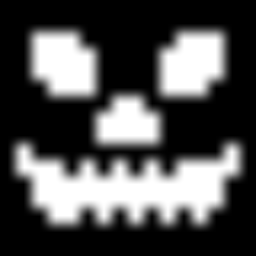
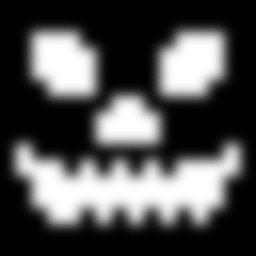
fix skull overlay

diff --git a/src/main/java/luke/bonusblocks/BonusModels.java b/src/main/java/luke/bonusblocks/BonusModels.java
@@ -1,8 +1,6 @@
 package luke.bonusblocks;
 
-import luke.bonusblocks.block.BonusBlocks;
 import luke.bonusblocks.block.blockmodel.*;
-import luke.bonusblocks.item.BonusItems;
 import net.minecraft.client.render.EntityRenderDispatcher;
 import net.minecraft.client.render.TileEntityRenderDispatcher;
 import net.minecraft.client.render.block.color.BlockColorCustom;
@@ -13,9 +11,12 @@ import net.minecraft.client.render.colorizer.Colorizers;
 import net.minecraft.client.render.item.model.ItemModelDispatcher;
 import net.minecraft.client.render.item.model.ItemModelStandard;
 import net.minecraft.client.render.texture.stitcher.TextureRegistry;
+import net.minecraft.core.util.collection.NamespaceID;
 import net.minecraft.core.util.helper.Side;
 import turniplabs.halplibe.helper.ModelHelper;
 import turniplabs.halplibe.util.ModelEntrypoint;
+
+import static luke.bonusblocks.BonusBlocksMod.MOD_ID;
 
 public class BonusModels implements ModelEntrypoint {
     @Override
@@ -359,21 +360,73 @@ public class BonusModels implements ModelEntrypoint {
 
     @Override
     public void initItemModels(ItemModelDispatcher dispatcher) {
-        ModelHelper.setItemModel(BonusItems.SOULWAX, () -> new ItemModelStandard(BonusItems.SOULWAX, "bonusblocks"));
 
-        ModelHelper.setItemModel(BonusItems.MOSSBALL, () -> new ItemModelStandard(BonusItems.MOSSBALL, "bonusblocks"));
+        ModelHelper.setItemModel(BonusItems.SOULWAX, () -> {
+            ItemModelStandard itemModelStandard = new ItemModelStandard(BonusItems.SOULWAX, MOD_ID);
+            itemModelStandard.icon = TextureRegistry.getTexture(NamespaceID.getPermanent(MOD_ID, "item/soulwax"));
+            return itemModelStandard;
+        });
+        ModelHelper.setItemModel(BonusItems.MOSSBALL, () -> {
+            ItemModelStandard itemModelStandard = new ItemModelStandard(BonusItems.MOSSBALL, MOD_ID);
+            itemModelStandard.icon = TextureRegistry.getTexture(NamespaceID.getPermanent(MOD_ID, "item/moss"));
+            return itemModelStandard;
+        });
 
-        ModelHelper.setItemModel(BonusItems.DOOR_STONE, () -> new ItemModelStandard(BonusItems.DOOR_STONE, "bonusblocks"));
-        ModelHelper.setItemModel(BonusItems.DOOR_BASALT, () -> new ItemModelStandard(BonusItems.DOOR_BASALT, "bonusblocks"));
-        ModelHelper.setItemModel(BonusItems.DOOR_GRANITE, () -> new ItemModelStandard(BonusItems.DOOR_GRANITE, "bonusblocks"));
-        ModelHelper.setItemModel(BonusItems.DOOR_LIMESTONE, () -> new ItemModelStandard(BonusItems.DOOR_LIMESTONE, "bonusblocks"));
-        ModelHelper.setItemModel(BonusItems.DOOR_MARBLE, () -> new ItemModelStandard(BonusItems.DOOR_MARBLE, "bonusblocks"));
-        ModelHelper.setItemModel(BonusItems.DOOR_SLATE, () -> new ItemModelStandard(BonusItems.DOOR_SLATE, "bonusblocks"));
-        ModelHelper.setItemModel(BonusItems.DOOR_PERMAFROST, () -> new ItemModelStandard(BonusItems.DOOR_PERMAFROST, "bonusblocks"));
-        ModelHelper.setItemModel(BonusItems.DOOR_NETHERRACK, () -> new ItemModelStandard(BonusItems.DOOR_NETHERRACK, "bonusblocks"));
-        ModelHelper.setItemModel(BonusItems.DOOR_GLASS_OBSIDIAN, () -> new ItemModelStandard(BonusItems.DOOR_GLASS_OBSIDIAN, "bonusblocks"));
-        ModelHelper.setItemModel(BonusItems.DOOR_GLASS_QUARTZ, () -> new ItemModelStandard(BonusItems.DOOR_GLASS_QUARTZ, "bonusblocks"));
-        ModelHelper.setItemModel(BonusItems.DOOR_GLASS_STEEL, () -> new ItemModelStandard(BonusItems.DOOR_GLASS_STEEL, "bonusblocks"));
+        ModelHelper.setItemModel(BonusItems.DOOR_STONE, () -> {
+            ItemModelStandard itemModelStandard = new ItemModelStandard(BonusItems.DOOR_STONE, MOD_ID);
+            itemModelStandard.icon = TextureRegistry.getTexture(NamespaceID.getPermanent(MOD_ID, "item/door_stone"));
+            return itemModelStandard;
+        });
+        ModelHelper.setItemModel(BonusItems.DOOR_BASALT, () -> {
+            ItemModelStandard itemModelStandard = new ItemModelStandard(BonusItems.DOOR_BASALT, MOD_ID);
+            itemModelStandard.icon = TextureRegistry.getTexture(NamespaceID.getPermanent(MOD_ID, "item/door_basalt"));
+            return itemModelStandard;
+        });
+        ModelHelper.setItemModel(BonusItems.DOOR_GRANITE, () -> {
+            ItemModelStandard itemModelStandard = new ItemModelStandard(BonusItems.DOOR_GRANITE, MOD_ID);
+            itemModelStandard.icon = TextureRegistry.getTexture(NamespaceID.getPermanent(MOD_ID, "item/door_granite"));
+            return itemModelStandard;
+        });
+        ModelHelper.setItemModel(BonusItems.DOOR_LIMESTONE, () -> {
+            ItemModelStandard itemModelStandard = new ItemModelStandard(BonusItems.DOOR_LIMESTONE, MOD_ID);
+            itemModelStandard.icon = TextureRegistry.getTexture(NamespaceID.getPermanent(MOD_ID, "item/door_limestone"));
+            return itemModelStandard;
+        });
+        ModelHelper.setItemModel(BonusItems.DOOR_MARBLE, () -> {
+            ItemModelStandard itemModelStandard = new ItemModelStandard(BonusItems.DOOR_MARBLE, MOD_ID);
+            itemModelStandard.icon = TextureRegistry.getTexture(NamespaceID.getPermanent(MOD_ID, "item/door_marble"));
+            return itemModelStandard;
+        });
+        ModelHelper.setItemModel(BonusItems.DOOR_SLATE, () -> {
+            ItemModelStandard itemModelStandard = new ItemModelStandard(BonusItems.DOOR_SLATE, MOD_ID);
+            itemModelStandard.icon = TextureRegistry.getTexture(NamespaceID.getPermanent(MOD_ID, "item/door_slate"));
+            return itemModelStandard;
+        });
+        ModelHelper.setItemModel(BonusItems.DOOR_PERMAFROST, () -> {
+            ItemModelStandard itemModelStandard = new ItemModelStandard(BonusItems.DOOR_PERMAFROST, MOD_ID);
+            itemModelStandard.icon = TextureRegistry.getTexture(NamespaceID.getPermanent(MOD_ID, "item/door_permafrost"));
+            return itemModelStandard;
+        });
+        ModelHelper.setItemModel(BonusItems.DOOR_NETHERRACK, () -> {
+            ItemModelStandard itemModelStandard = new ItemModelStandard(BonusItems.DOOR_NETHERRACK, MOD_ID);
+            itemModelStandard.icon = TextureRegistry.getTexture(NamespaceID.getPermanent(MOD_ID, "item/door_netherrack"));
+            return itemModelStandard;
+        });
+        ModelHelper.setItemModel(BonusItems.DOOR_GLASS_OBSIDIAN, () -> {
+            ItemModelStandard itemModelStandard = new ItemModelStandard(BonusItems.DOOR_GLASS_OBSIDIAN, MOD_ID);
+            itemModelStandard.icon = TextureRegistry.getTexture(NamespaceID.getPermanent(MOD_ID, "item/door_glass_obsidian"));
+            return itemModelStandard;
+        });
+        ModelHelper.setItemModel(BonusItems.DOOR_GLASS_QUARTZ, () -> {
+            ItemModelStandard itemModelStandard = new ItemModelStandard(BonusItems.DOOR_GLASS_QUARTZ, MOD_ID);
+            itemModelStandard.icon = TextureRegistry.getTexture(NamespaceID.getPermanent(MOD_ID, "item/door_glass_quartz"));
+            return itemModelStandard;
+        });
+        ModelHelper.setItemModel(BonusItems.DOOR_GLASS_STEEL, () -> {
+            ItemModelStandard itemModelStandard = new ItemModelStandard(BonusItems.DOOR_GLASS_STEEL, MOD_ID);
+            itemModelStandard.icon = TextureRegistry.getTexture(NamespaceID.getPermanent(MOD_ID, "item/door_glass_steel"));
+            return itemModelStandard;
+        });
     }
 
     @Override
@@ -389,7 +442,6 @@ public class BonusModels implements ModelEntrypoint {
     @Override
     public void initBlockColors(BlockColorDispatcher dispatcher) {
         ModelHelper.setBlockColor(BonusBlocks.LEAVES_OAK_MOSSY, () -> new BlockColorLeavesOak(Colorizers.oak));
-
         ModelHelper.setBlockColor(BonusBlocks.GRASS_OVERGROWN, () -> new BlockColorCustom(Colorizers.grass));
 
     }

diff --git a/src/main/java/luke/bonusblocks/mixin/HudIngameMixin.java b/src/main/java/luke/bonusblocks/mixin/HudIngameMixin.java
@@ -1,6 +1,6 @@
 package luke.bonusblocks.mixin;
 
-import luke.bonusblocks.block.BonusBlocks;
+import luke.bonusblocks.BonusBlocks;
 import net.minecraft.client.Minecraft;
 import net.minecraft.client.gui.Gui;
 import net.minecraft.client.gui.hud.HudIngame;
@@ -15,27 +15,27 @@ import org.spongepowered.asm.mixin.injection.Inject;
 import org.spongepowered.asm.mixin.injection.callback.CallbackInfo;
 
 @Mixin(value = HudIngame.class, remap = false)
-public abstract class GuiIngameMixin extends Gui {
+public abstract class HudIngameMixin extends Gui {
 
-    @Unique
-    int width = this.mc.resolution.getScaledWidthScreenCoords();
-    @Unique
-    int height = this.mc.resolution.getScaledHeightScreenCoords();
-
-    @Shadow
-    protected Minecraft mc;
+    @Shadow protected Minecraft mc;
 
     @Inject(method = "renderGameOverlay(FZII)V",
-            at = @At(value = "TAIL"))
-    private void renderGameOverlay(float partialTicks, boolean flag, int mouseX, int mouseY, CallbackInfo ci) {
+            at = @At(value = "TAIL"), cancellable = true)
+    public void renderGameOverlay(float partialTicks, boolean flag, int mouseX, int mouseY, CallbackInfo ci) {
+        int width = this.mc.resolution.getScaledWidthScreenCoords();
+        int height = this.mc.resolution.getScaledHeightScreenCoords();
+        this.mc.worldRenderer.setupScaledResolution();
+        GL11.glEnable(3042);
+        GL11.glBlendFunc(770, 771);
 
         ItemStack headSlotItem = this.mc.thePlayer.inventory.armorItemInSlot(3);
         if (this.mc.gameSettings.thirdPersonView.value == 0 && headSlotItem != null && headSlotItem.itemID == BonusBlocks.SKULL_CARVED_IDLE.id()) {
             this.renderSkullBlur(width, height);
         }
+        ci.cancel();
     }
     @Unique
-    protected void renderSkullBlur(int xSize, int ySize) {
+    public void renderSkullBlur(int xSize, int ySize) {
         GL11.glDisable(2929);
         GL11.glDepthMask(false);
         GL11.glBlendFunc(770, 771);
@@ -44,9 +44,9 @@ public abstract class GuiIngameMixin extends Gui {
         this.mc.textureManager.loadTexture("/assets/bonusblocks/skullblur.png").bind();
         Tessellator tessellator = Tessellator.instance;
         tessellator.startDrawingQuads();
-        tessellator.addVertexWithUV(0.0, (double)ySize, -90.0, 0.0, 1.0);
-        tessellator.addVertexWithUV((double)xSize, (double)ySize, -90.0, 1.0, 1.0);
-        tessellator.addVertexWithUV((double)xSize, 0.0, -90.0, 1.0, 0.0);
+        tessellator.addVertexWithUV(0.0, ySize, -90.0, 0.0, 1.0);
+        tessellator.addVertexWithUV(xSize, ySize, -90.0, 1.0, 1.0);
+        tessellator.addVertexWithUV(xSize, 0.0, -90.0, 1.0, 0.0);
         tessellator.addVertexWithUV(0.0, 0.0, -90.0, 0.0, 0.0);
         tessellator.draw();
         GL11.glDepthMask(true);

diff --git a/src/main/java/luke/bonusblocks/mixin/BiomeForestMixin.java b/src/main/java/luke/bonusblocks/mixin/BiomeForestMixin.java
@@ -1,5 +1,6 @@
 package luke.bonusblocks.mixin;
 
+import luke.bonusblocks.BonusBlocks;
 import net.minecraft.core.block.Blocks;
 import net.minecraft.core.world.biome.BiomeForest;
 import net.minecraft.core.world.generate.feature.WorldFeature;
@@ -23,7 +24,7 @@ public class BiomeForestMixin {
             cir.setReturnValue(new WorldFeatureTreeFancy(Blocks.LEAVES_OAK.id(), Blocks.LOG_OAK.id()));
         }
         if (random.nextInt(25) == 0) {
-            cir.setReturnValue(new WorldFeatureTree(Blocks.LEAVES_OAK.id(), Blocks.LOG_OAK_MOSSY.id(), 4));
+            cir.setReturnValue(new WorldFeatureTree(BonusBlocks.LEAVES_OAK_MOSSY.id(), Blocks.LOG_OAK_MOSSY.id(), 4));
         }
         cir.setReturnValue(new WorldFeatureTree(Blocks.LEAVES_OAK.id(), Blocks.LOG_OAK.id(), 4));
         cir.cancel();

diff --git a/src/main/java/luke/bonusblocks/BonusBlocks.java b/src/main/java/luke/bonusblocks/BonusBlocks.java
@@ -1,7 +1,7 @@
-package luke.bonusblocks.block;
+package luke.bonusblocks;
 
+import luke.bonusblocks.block.*;
 import luke.bonusblocks.block.blockmodel.ItemBlockSlabWool;
-import luke.bonusblocks.item.BonusItems;
 import net.minecraft.core.block.*;
 import net.minecraft.core.block.material.Material;
 import net.minecraft.core.block.tag.BlockTags;
@@ -464,7 +464,7 @@ public class BonusBlocks {
 
         // Leaves and Branch
         BRANCH = leaves
-                .setBlockSound(new BlockSound("step.grass", "step.grass", 1.0f, 0.5f))
+                .setBlockSound(new BlockSound("step.grass", "step.grass", 0.8f, 0.8f))
                 .setTags(BlockTags.MINEABLE_BY_AXE, BlockTags.FENCES_CONNECT)
                 .build("branch", "branch", blockID++, b -> new BlockBranch(b, Material.leaves));
 

diff --git a/src/main/java/luke/bonusblocks/BonusItems.java b/src/main/java/luke/bonusblocks/BonusItems.java
@@ -1,6 +1,5 @@
-package luke.bonusblocks.item;
+package luke.bonusblocks;
 
-import luke.bonusblocks.block.BonusBlocks;
 import net.minecraft.core.item.Item;
 import net.minecraft.core.item.ItemDoor;
 import turniplabs.halplibe.helper.ItemBuilder;
@@ -33,7 +32,7 @@ public class BonusItems {
                 .build(new Item("soulwax", "bonusblocks:item/soulwax", itemID++));
 
         MOSSBALL = new ItemBuilder(MOD_ID)
-                .build(new Item("mossball", ":item/mossball", itemID++));
+                .build(new Item("mossball", "bonusblocks:item/mossball", itemID++));
 
         DOOR_STONE = new ItemBuilder(MOD_ID)
                 .build(new ItemDoor("door.stone", "bonusblocks:item/door_stone", itemID++, BonusBlocks.DOOR_STONE_BOTTOM, BonusBlocks.DOOR_STONE_TOP));

diff --git a/src/main/java/luke/bonusblocks/biomes/BiomeDryland.java b/src/main/java/luke/bonusblocks/biomes/BiomeDryland.java
@@ -1,11 +1,10 @@
 package luke.bonusblocks.biomes;
 
-import luke.bonusblocks.block.BonusBlocks;
+import luke.bonusblocks.BonusBlocks;
 import net.minecraft.core.block.Blocks;
 import net.minecraft.core.world.biome.Biome;
 import net.minecraft.core.world.generate.feature.WorldFeature;
 import net.minecraft.core.world.generate.feature.tree.WorldFeatureTreeEucalyptus;
-import net.minecraft.core.world.generate.feature.tree.WorldFeatureTreeFancy;
 import net.minecraft.core.world.generate.feature.tree.WorldFeatureTreeShrub;
 import net.minecraft.core.world.weather.Weathers;
 

diff --git a/src/main/java/luke/bonusblocks/mixin/BiomeProviderOverworldMixin.java b/src/main/java/luke/bonusblocks/mixin/BiomeProviderOverworldMixin.java
@@ -1,6 +1,6 @@
 package luke.bonusblocks.mixin;
 
-import luke.bonusblocks.biomes.BonusBiomes;
+import luke.bonusblocks.BonusBiomes;
 import net.minecraft.core.world.biome.data.BiomeRange;
 import net.minecraft.core.world.biome.data.BiomeRangeMap;
 import net.minecraft.core.world.biome.provider.BiomeProviderOverworld;

diff --git a/src/main/java/luke/bonusblocks/BonusBiomes.java b/src/main/java/luke/bonusblocks/BonusBiomes.java
@@ -1,6 +1,8 @@
-package luke.bonusblocks.biomes;
+package luke.bonusblocks;
 
 import luke.bonusblocks.BonusBlocksMod;
+import luke.bonusblocks.biomes.BiomeDryland;
+import luke.bonusblocks.biomes.BiomeOvergrown;
 import net.minecraft.core.world.biome.Biome;
 import net.minecraft.core.world.biome.Biomes;
 

diff --git a/src/main/java/luke/bonusblocks/mixin/BiomeRainforestMixin.java b/src/main/java/luke/bonusblocks/mixin/BiomeRainforestMixin.java
@@ -1,6 +1,6 @@
 package luke.bonusblocks.mixin;
 
-import luke.bonusblocks.block.BonusBlocks;
+import luke.bonusblocks.BonusBlocks;
 import net.minecraft.core.block.Blocks;
 import net.minecraft.core.world.biome.BiomeRainforest;
 import net.minecraft.core.world.generate.feature.WorldFeature;

diff --git a/src/main/java/luke/bonusblocks/mixin/BiomeShrublandMixin.java b/src/main/java/luke/bonusblocks/mixin/BiomeShrublandMixin.java
@@ -1,6 +1,6 @@
 package luke.bonusblocks.mixin;
 
-import luke.bonusblocks.block.BonusBlocks;
+import luke.bonusblocks.BonusBlocks;
 import net.minecraft.core.block.Blocks;
 import net.minecraft.core.world.biome.BiomeShrubland;
 import net.minecraft.core.world.generate.feature.WorldFeature;

diff --git a/src/main/java/luke/bonusblocks/mixin/BiomeSwampMixin.java b/src/main/java/luke/bonusblocks/mixin/BiomeSwampMixin.java
@@ -1,6 +1,6 @@
 package luke.bonusblocks.mixin;
 
-import luke.bonusblocks.block.BonusBlocks;
+import luke.bonusblocks.BonusBlocks;
 import net.minecraft.core.block.Blocks;
 import net.minecraft.core.world.biome.BiomeSwamp;
 import net.minecraft.core.world.generate.feature.WorldFeature;

diff --git a/src/main/java/luke/bonusblocks/biomes/BiomeOvergrown.java b/src/main/java/luke/bonusblocks/biomes/BiomeOvergrown.java
@@ -1,6 +1,6 @@
 package luke.bonusblocks.biomes;
 
-import luke.bonusblocks.block.BonusBlocks;
+import luke.bonusblocks.BonusBlocks;
 import net.minecraft.core.block.Blocks;
 import net.minecraft.core.world.biome.Biome;
 import net.minecraft.core.world.generate.feature.WorldFeature;
